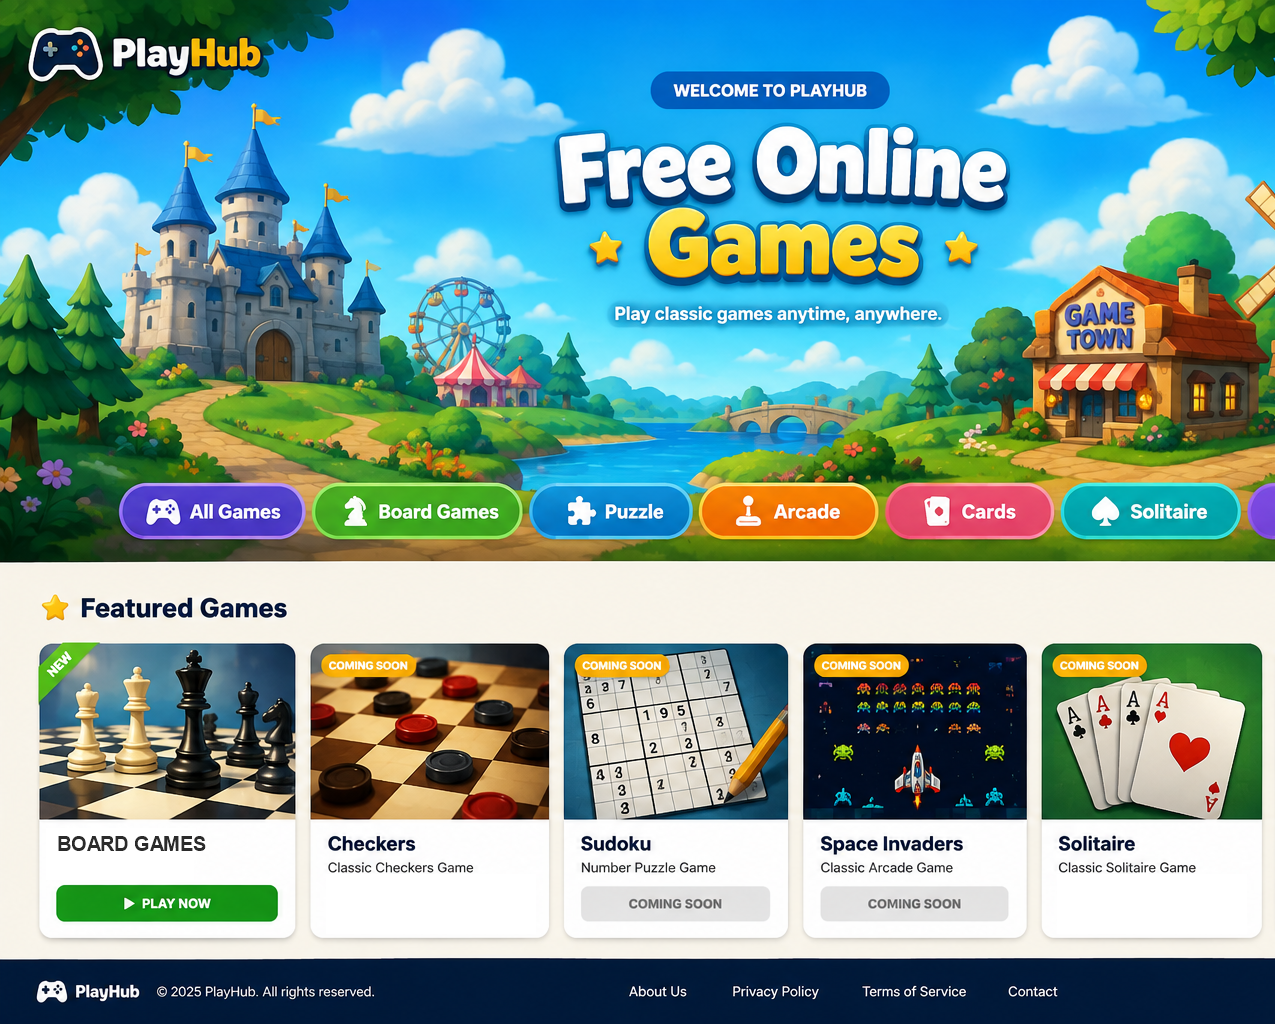
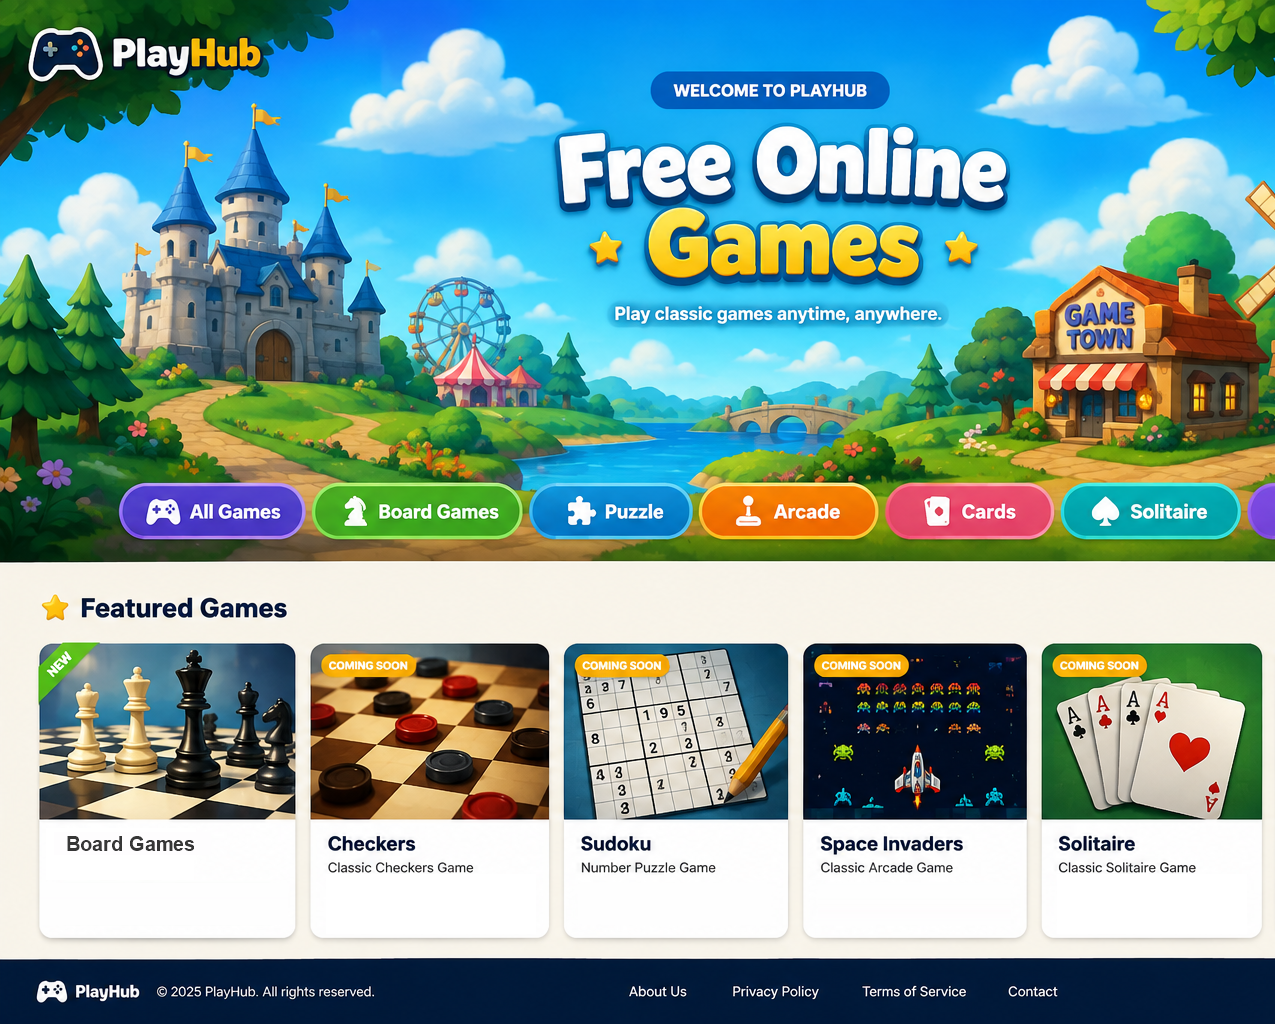
sync: apply PlayHub homepage updates to root site (Board Games title, remove baked-in PLAY NOW/COMING SOON, About/Privacy hotspots, uniform PLAY NOW buttons)

Changed region(s): [[0.0306, 0.8125, 0.2141, 0.9062], [0.6424, 0.8438, 0.7953, 0.9062], [0.4588, 0.8438, 0.6118, 0.9062]]

diff --git a/index.html b/index.html
@@ -56,13 +56,17 @@
       <a class="overlay-play overlay-play--solitaire" href="games/solitaire.html" title="Play Solitaire — Classic Solitaire Game">PLAY NOW</a>
     </div>
 
-    <!-- 設計圖上的互動熱區：點卡片進入對應遊戲（座標為 1536×1024 原圖座標） -->
+    <!-- 設計圖上的互動熱區：點卡片進入對應遊戲（座標為 1275×1024 原圖座標） -->
     <map name="playhub-map" id="playhub-map">
       <area shape="rect" coords="36,614,300,952" href="games/chess.html" title="Chess" alt="Play Chess — Classic Chess Game" />
       <area shape="rect" coords="304,614,556,952" href="games/checkers.html" title="Checkers" alt="Play Checkers — Classic Checkers Game" />
       <area shape="rect" coords="560,614,796,952" href="#games" data-soon="Sudoku" title="Sudoku — Coming Soon" alt="Sudoku — coming soon" />
       <area shape="rect" coords="800,614,1036,952" href="#games" data-soon="Space Invaders" title="Space Invaders — Coming Soon" alt="Space Invaders — coming soon" />
       <area shape="rect" coords="1038,614,1270,952" href="games/solitaire.html" title="Solitaire" alt="Play Solitaire — Classic Solitaire Game" />
+
+      <!-- About / Privacy 入口：點設計圖 footer 上的 About US / Privacy Policy 文字進入對應頁面 -->
+      <area shape="rect" coords="620,978,700,1005" href="about.html" title="About PlayHub" alt="About PlayHub" />
+      <area shape="rect" coords="725,978,830,1005" href="privacy.html" title="Privacy Policy" alt="Privacy Policy" />
     </map>
 
     <!-- ═══════════════════════════════════════════════════════════

diff --git a/css/style.css b/css/style.css
@@ -695,19 +695,23 @@ a {
   position: relative;
 }
 
-/* 覆蓋在設計圖上的 PLAY NOW 按鈕（遊戲實際上可玩，蓋住圖上的 Coming Soon 字樣） */
+/* 覆蓋在設計圖上的 PLAY NOW 按鈕（遊戲實際上可玩）
+   尺寸統一：三顆按鈕同寬同高，各自在卡片內水平置中
+   （對應 1275×1024 原圖：Chess 中心 x168 / Checkers x430 / Solitaire x1154） */
 .overlay-play {
   position: absolute;
   top: 85.5%;
   height: 5.5%;
+  width: 14%;
   display: flex;
   align-items: center;
   justify-content: center;
+  gap: 6px;
   border-radius: 999px;
-  background: #1c9620;
+  background: linear-gradient(180deg, #28a62d 0%, #1c9620 100%);
   color: #ffffff;
   font-weight: 700;
-  font-size: clamp(10px, 1.5vw, 17px);
+  font-size: clamp(10px, 1.4vw, 16px);
   letter-spacing: 0.5px;
   text-decoration: none;
   z-index: 3;
@@ -715,12 +719,19 @@ a {
   transition: background 0.2s ease, transform 0.2s ease;
 }
 
-.overlay-play--chess { left: 4.4%; width: 17.3%; }
-.overlay-play--checkers { left: 25.6%; width: 16.2%; }
-.overlay-play--solitaire { left: 83.1%; width: 14.4%; }
+.overlay-play::before {
+  content: "▶";
+  font-size: 0.85em;
+  line-height: 1;
+  transform: translateY(-1px);
+}
+
+.overlay-play--chess { left: 6.18%; }
+.overlay-play--checkers { left: 26.73%; }
+.overlay-play--solitaire { left: 83.51%; }
 
 .overlay-play:hover {
-  background: #15821a;
+  background: linear-gradient(180deg, #1b8f20 0%, #15821a 100%);
   transform: scale(1.04);
 }
 

diff --git a/about.html b/about.html
@@ -45,6 +45,8 @@
         Feedback or suggestions? Reach us at
         <a href="mailto:hello@playhubgames.com">hello@playhubgames.com</a>.
       </p>
+      <h2>Legal</h2>
+      <p>Read our <a href="privacy.html">Privacy Policy</a>.</p>
     </article>
   </div>
 </body>

diff --git a/privacy.html b/privacy.html
@@ -33,6 +33,8 @@
         Questions about this policy? Contact
         <a href="mailto:hello@playhubgames.com">hello@playhubgames.com</a>.
       </p>
+      <h2>About</h2>
+      <p>Learn more about <a href="about.html">PlayHub</a>.</p>
     </article>
   </div>
 </body>
